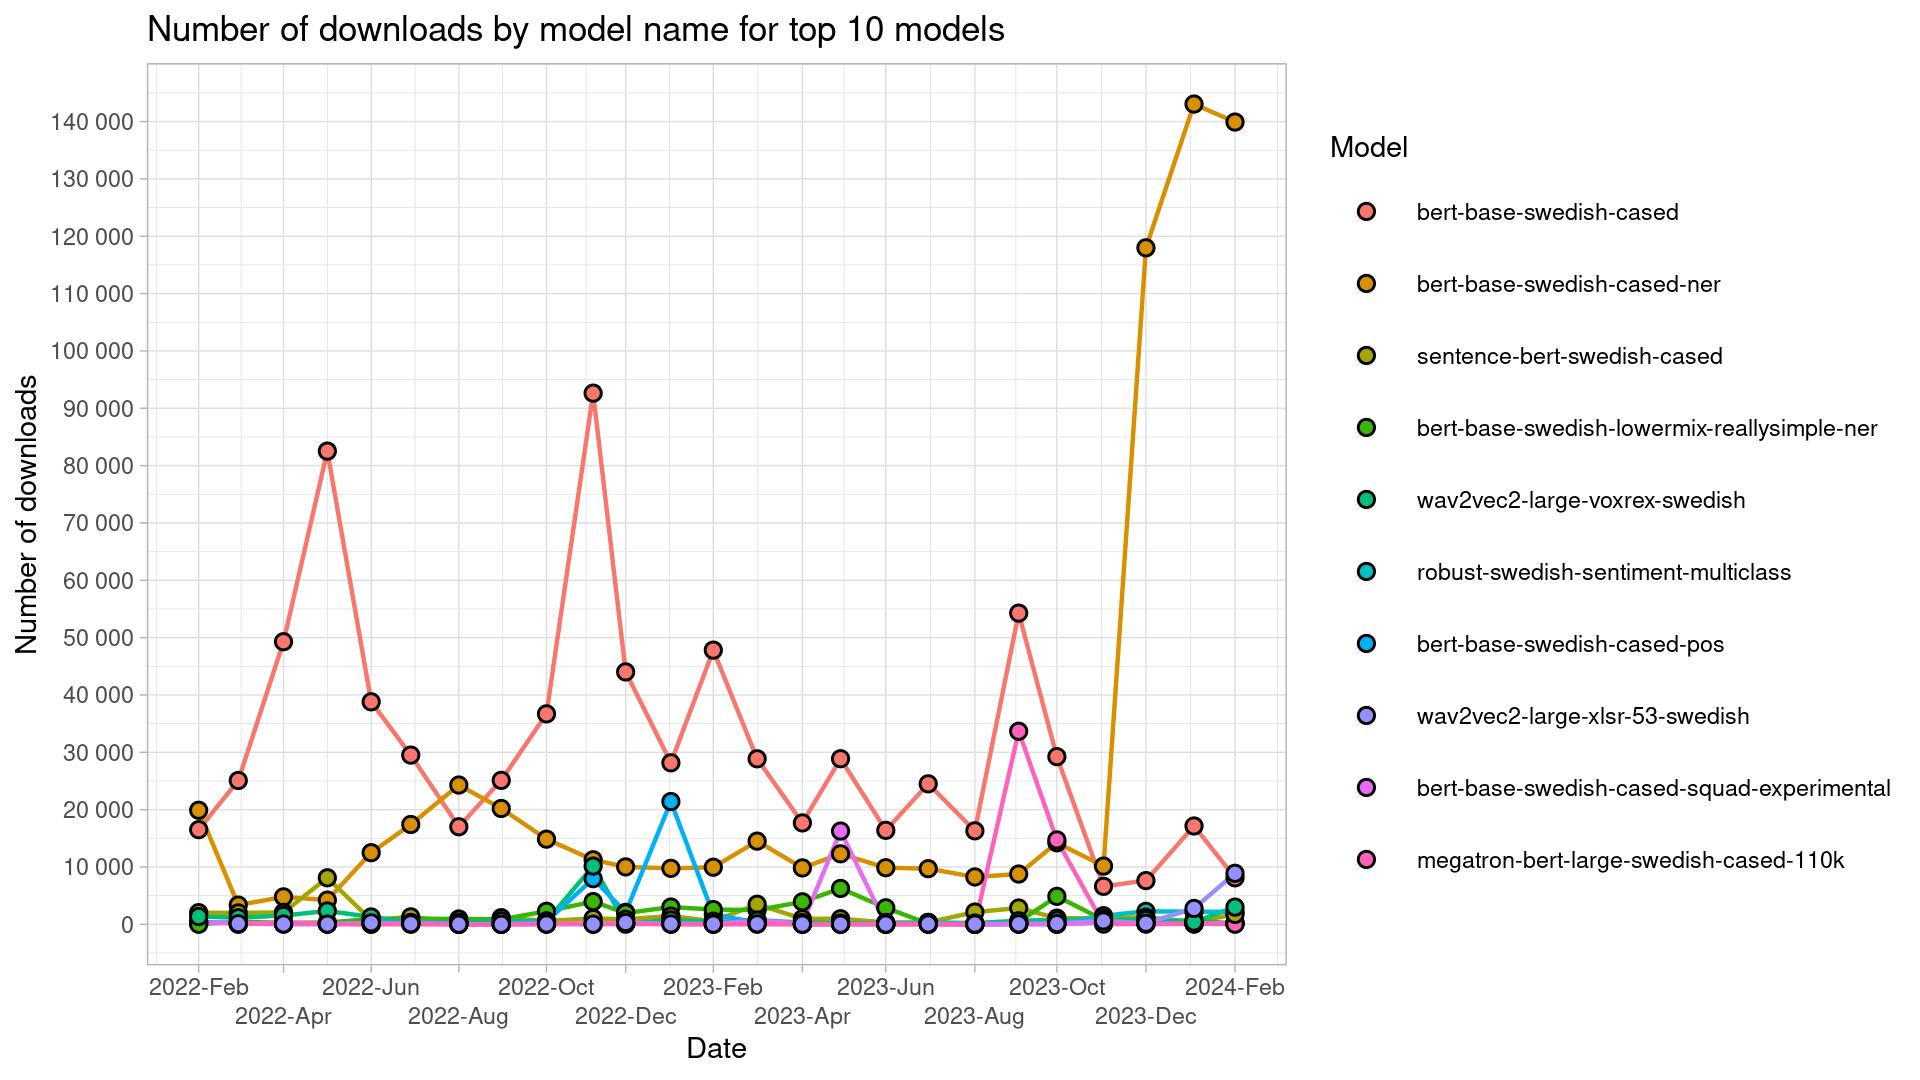
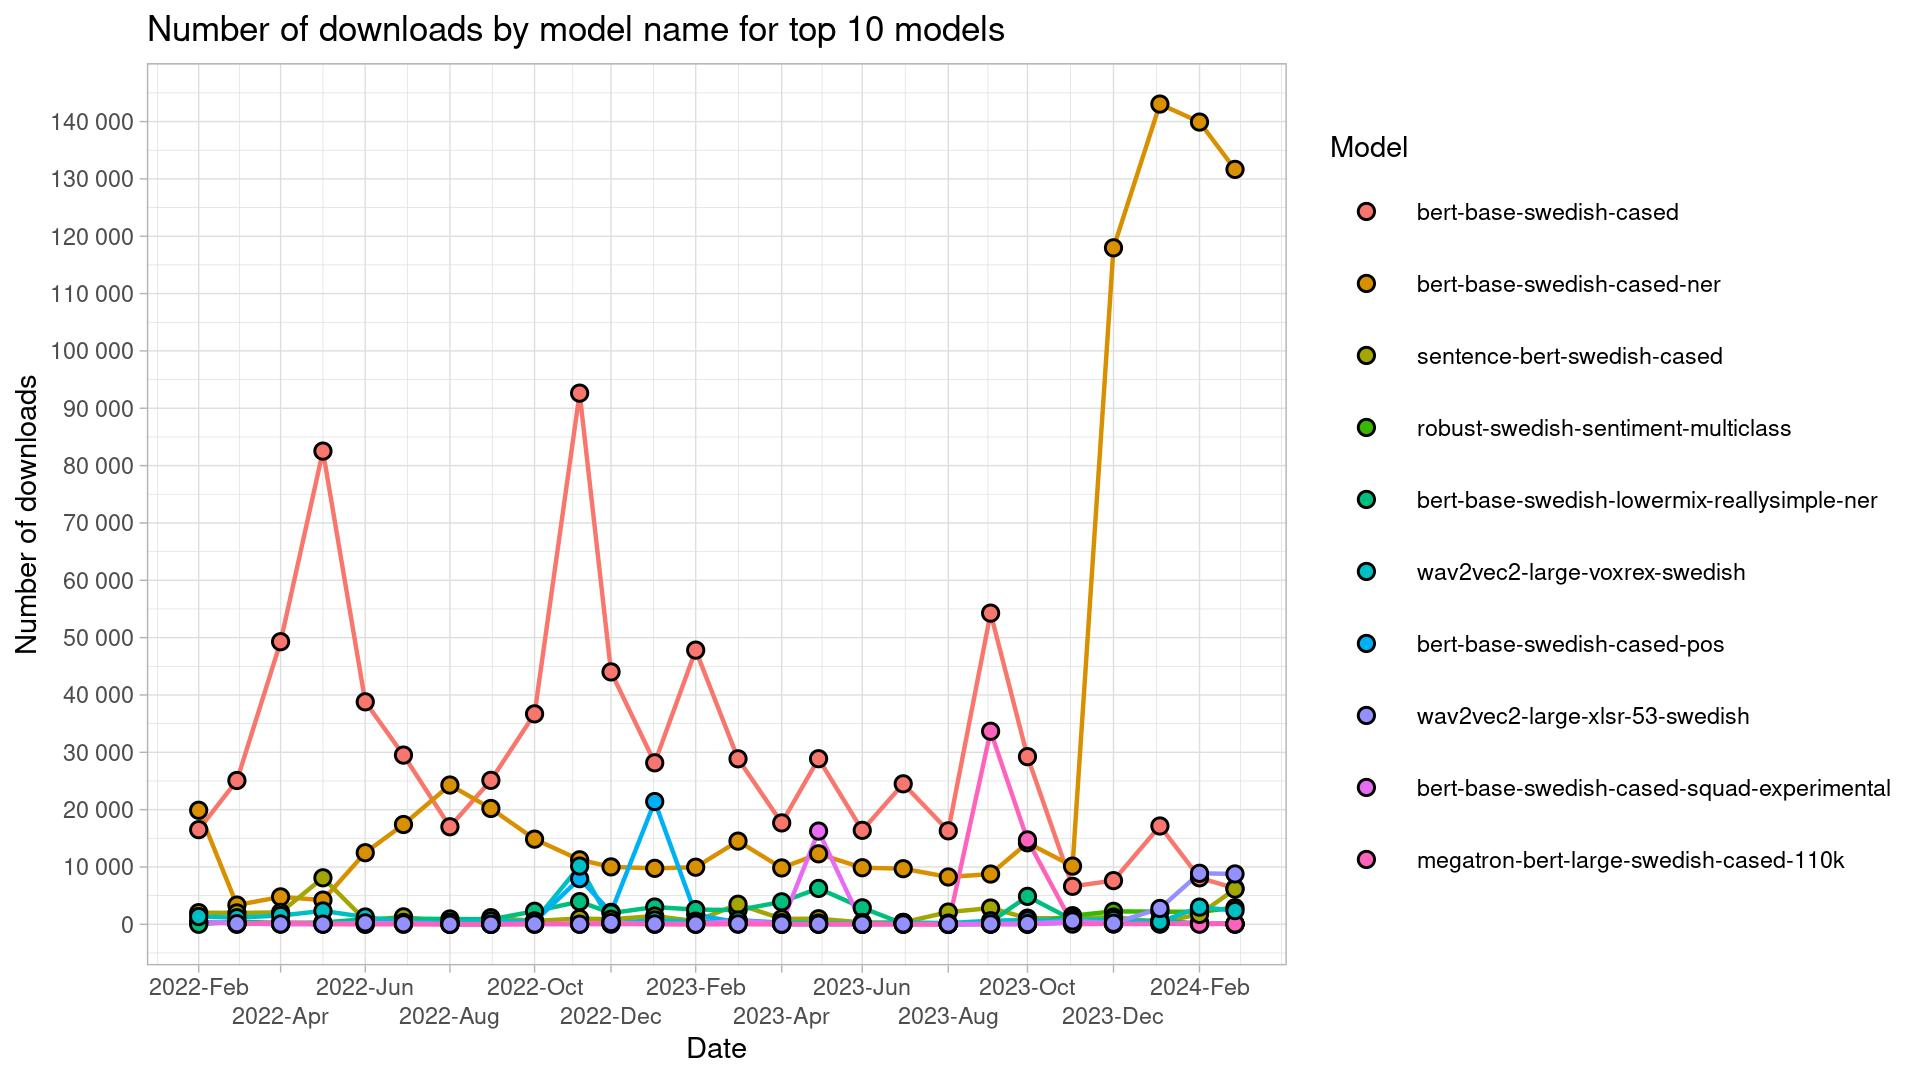
March 2024 stats

diff --git a/README.md b/README.md
@@ -12,40 +12,41 @@ Script is run monthly, and a monthly `csv`-file outputted to `/data` folder.
 
 ## Table of downloads
 
-|model_name                                      | 2022-02| 2022-03| 2022-04| 2022-05| 2022-06| 2022-07| 2022-08| 2022-09| 2022-10| 2022-11| 2022-12| 2023-01| 2023-02| 2023-03| 2023-04| 2023-05| 2023-06| 2023-07| 2023-08| 2023-09| 2023-10| 2023-11| 2023-12| 2024-01| 2024-02|
-|:-----------------------------------------------|-------:|-------:|-------:|-------:|-------:|-------:|-------:|-------:|-------:|-------:|-------:|-------:|-------:|-------:|-------:|-------:|-------:|-------:|-------:|-------:|-------:|-------:|-------:|-------:|-------:|
-|albert-base-swedish-cased-alpha                 |     126|     252|      61|      52|      52|      28|      31|      17|      30|      64|     229|      37|      32|      75|      13|      17|      24|      39|      14|      18|       4|      71|      75|      74|      20|
-|asr-voxrex-bart-base                            |      11|      10|      19|       5|       2|       1|       1|       3|       2|       3|       2|       4|       9|      15|       7|       2|       4|       7|       4|       3|       8|       2|       5|       1|       6|
-|bart-base-swedish-cased                         |      74|      12|     116|     126|      32|      18|      41|      56|      81|       6|       9|      18|      41|      70|     110|      60|      50|      40|      23|       9|      63|      44|      42|      11|     129|
-|bert-base-swedish-cased                         |   16509|   25080|   49286|   82528|   38802|   29511|   17012|   25106|   36702|   92636|   44016|   28164|   47819|   28864|   17684|   28878|   16390|   24502|   16303|   54271|   29238|    6625|    7620|   17149|    8106|
-|bert-base-swedish-cased-alpha                   |      22|      24|    1362|      34|       8|      73|       7|      14|      14|      14|      10|     160|     151|       6|       9|       5|       6|       9|       2|      12|       3|       4|       5|       3|       5|
-|bert-base-swedish-cased-ner                     |   19891|    3353|    4783|    4221|   12487|   17406|   24290|   20200|   14852|   11251|   10014|    9759|    9957|   14508|    9834|   12293|    9868|    9701|    8258|    8767|   14214|   10149|  117977|  143050|  139912|
-|bert-base-swedish-cased-neriob                  |       8|      87|      34|      25|       4|      44|       2|       1|      62|      10|       5|      31|       5|       8|       6|       6|       9|      18|       2|       1|       0|      19|       8|       5|       5|
-|bert-base-swedish-cased-new                     |      NA|       0|     377|    1069|     786|      10|     238|      69|     225|     168|     163|      46|      44|     352|     303|      33|      52|      69|      73|     211|      96|      84|      30|      34|       5|
-|bert-base-swedish-cased-pos                     |     428|     179|     107|     104|     168|     310|       2|       2|     467|    7959|    2083|   21410|    1713|     300|      15|      28|      58|      64|       9|      75|      28|     312|     159|     166|     239|
-|bert-base-swedish-cased-reallysimple-ner        |       6|      32|       9|       7|      11|      10|       3|       8|      10|      17|       4|      16|     159|     401|     211|     334|     327|     326|      74|     152|     341|     304|     274|       3|       7|
-|bert-base-swedish-cased-squad-experimental      |     323|     136|      45|      23|      40|     182|      25|      27|     101|      10|      22|      62|      56|     643|     130|   16262|      29|      29|       4|      16|      10|     280|      64|      34|     275|
-|bert-base-swedish-lowermix-reallysimple-ner     |       6|     453|     248|     312|     901|     991|     930|     871|    2274|    3958|    1963|    3010|    2567|    2485|    3919|    6258|    2875|     121|      53|     417|    4874|     769|     327|     713|      81|
-|electra-base-swedish-cased-discriminator        |     317|     143|     149|    1404|       2|       3|       3|       3|       2|       5|       0|       7|       2|       0|       6|       7|       4|       8|       0|       1|       0|       4|       0|       1|       4|
-|electra-base-swedish-cased-generator            |       9|      15|      26|      31|       2|      19|       1|      18|       1|       9|       4|      10|       4|      14|      88|      78|     107|      72|       3|      15|      39|      12|       7|      11|       8|
-|electra-small-swedish-cased-discriminator       |      12|       5|    1467|    3804|      10|       5|       2|       2|       2|      10|       8|      12|     153|       1|       9|       2|       6|       4|      18|       6|       0|       3|       0|       7|      11|
-|electra-small-swedish-cased-generator           |      NA|       3|     138|      14|       4|      19|       2|       3|       4|       8|       6|      11|       4|       3|       6|      14|       4|       9|       0|       1|       0|     131|       5|       3|       5|
-|emotional-classification                        |      NA|      NA|      NA|      NA|      NA|      NA|      NA|      NA|      NA|      NA|      NA|      NA|      NA|      NA|      NA|      NA|      NA|     155|       3|       1|       2|      27|       9|       0|       0|
-|megatron-bert-base-swedish-cased-125k           |      NA|       0|     353|       0|       2|       8|       1|       3|     131|      55|     158|      27|      21|      19|       7|       6|      10|      10|       4|       2|       0|       4|      29|      22|       5|
-|megatron-bert-base-swedish-cased-600k           |      NA|      10|     288|      87|      30|      16|      16|      17|     111|      12|      20|     194|      27|      49|      13|      15|     100|      22|       2|       2|      15|      12|      41|      21|       5|
-|megatron-bert-large-swedish-cased-110k          |      NA|       0|     346|      77|       4|       4|       0|       1|       1|     171|     160|      15|       8|      23|       4|       2|       4|       3|       0|   33671|   14716|      38|      63|     106|      29|
-|megatron-bert-large-swedish-cased-165-zero-shot |      NA|      NA|      NA|      NA|      NA|      NA|      NA|      NA|      NA|      NA|       5|      55|      26|      63|      20|     621|      69|     135|      58|     170|      48|     243|     123|      40|     127|
-|megatron-bert-large-swedish-cased-165k          |      NA|      NA|       9|      13|      40|      19|      53|       2|      18|     336|     327|      21|      34|      67|      43|      56|      36|      52|      13|      86|      37|      12|     343|     153|      24|
-|piper-tts-nst-swedish                           |      NA|      NA|      NA|      NA|      NA|      NA|      NA|      NA|      NA|      NA|      NA|      NA|      NA|      NA|      NA|       1|       8|       3|       0|       0|       0|       1|       0|       0|       0|
-|roberta-base-swedish-cased                      |       7|       7|     471|       8|      78|       5|      67|       2|       0|       5|       5|      37|     150|       3|       6|     204|      10|       9|       1|       2|       2|       2|       3|       3|      30|
-|robust-swedish-sentiment-multiclass             |      NA|      NA|      NA|      NA|      NA|      NA|      NA|      NA|      NA|      NA|      NA|      NA|      NA|      NA|      NA|      NA|      12|     296|       8|      58|     119|    1505|    2263|    2206|    2178|
-|sentence-bert-swedish-cased                     |    2033|    1988|    2079|    8110|     721|    1299|     304|    1157|     597|    1008|     887|    1441|     546|    3499|     955|     970|     327|     328|    2135|    2841|    1071|    1067|    1258|     383|    1733|
-|swedish-spacy-pipeline                          |      65|      22|       5|       2|       5|       9|       1|       2|       0|       1|       3|       4|       6|      90|       3|       1|       0|       1|       3|       9|       5|       5|       5|       3|      56|
-|wav2vec2-base-voxpopuli-sv-swedish              |      NA|      21|      19|       7|       1|      NA|       1|       5|      99|       6|       2|      13|      57|      12|      56|       4|      26|       9|       0|       1|       7|       4|       2|     113|       5|
-|wav2vec2-large-voxpopuli-sv-swedish             |      58|      32|      73|      57|      24|       5|       5|      11|      59|      15|       7|      23|       9|      10|      13|      10|       7|      14|       4|       1|       5|      26|       2|       3|      12|
-|wav2vec2-large-voxrex                           |     780|     609|     996|      57|     102|      55|      13|      34|      74|       4|       0|      56|      17|      11|       8|      17|       4|      15|       2|       1|      13|       6|       3|       1|      12|
-|wav2vec2-large-voxrex-swedish                   |    1356|    1151|    1534|    2331|    1277|     334|     361|     611|     531|   10157|     146|     770|     411|     732|     290|     225|      65|     330|     217|     624|     752|     769|     829|     392|    3000|
-|wav2vec2-large-xlsr-53-swedish                  |      NA|     112|      55|      32|     259|      91|      19|       9|      61|      26|     307|      71|      32|      76|      26|      31|      45|      65|      50|      77|     126|     586|     188|    2766|    8897|
-|whisper-large-rixvox                            |      NA|      NA|      NA|      NA|      NA|      NA|      NA|      NA|      NA|      NA|      NA|      NA|      NA|     113|      56|       8|       9|      12|       9|       6|       0|      16|       0|       2|      19|
-|whisper-small-rixvox                            |      NA|      NA|      NA|      NA|      NA|      NA|      NA|      NA|      NA|      NA|      NA|      NA|      NA|       3|       1|       6|       2|       7|       0|       0|       0|       1|       0|       0|       0|
-|whisper-tiny-rixvox                             |      NA|      NA|      NA|      NA|      NA|      NA|      NA|      NA|      NA|      NA|      NA|      NA|      NA|       9|       1|       5|       4|       7|       3|       0|       0|       1|       0|       0|       2|
+|model_name                                        | 2022-02| 2022-03| 2022-04| 2022-05| 2022-06| 2022-07| 2022-08| 2022-09| 2022-10| 2022-11| 2022-12| 2023-01| 2023-02| 2023-03| 2023-04| 2023-05| 2023-06| 2023-07| 2023-08| 2023-09| 2023-10| 2023-11| 2023-12| 2024-01| 2024-02| 2024-03|
+|:-------------------------------------------------|-------:|-------:|-------:|-------:|-------:|-------:|-------:|-------:|-------:|-------:|-------:|-------:|-------:|-------:|-------:|-------:|-------:|-------:|-------:|-------:|-------:|-------:|-------:|-------:|-------:|-------:|
+|albert-base-swedish-cased-alpha                   |     126|     252|      61|      52|      52|      28|      31|      17|      30|      64|     229|      37|      32|      75|      13|      17|      24|      39|      14|      18|       4|      71|      75|      74|      20|      27|
+|asr-voxrex-bart-base                              |      11|      10|      19|       5|       2|       1|       1|       3|       2|       3|       2|       4|       9|      15|       7|       2|       4|       7|       4|       3|       8|       2|       5|       1|       6|       8|
+|bart-base-swedish-cased                           |      74|      12|     116|     126|      32|      18|      41|      56|      81|       6|       9|      18|      41|      70|     110|      60|      50|      40|      23|       9|      63|      44|      42|      11|     129|      14|
+|bert-base-swedish-cased                           |   16509|   25080|   49286|   82528|   38802|   29511|   17012|   25106|   36702|   92636|   44016|   28164|   47819|   28864|   17684|   28878|   16390|   24502|   16303|   54271|   29238|    6625|    7620|   17149|    8106|    6290|
+|bert-base-swedish-cased-alpha                     |      22|      24|    1362|      34|       8|      73|       7|      14|      14|      14|      10|     160|     151|       6|       9|       5|       6|       9|       2|      12|       3|       4|       5|       3|       5|      11|
+|bert-base-swedish-cased-ner                       |   19891|    3353|    4783|    4221|   12487|   17406|   24290|   20200|   14852|   11251|   10014|    9759|    9957|   14508|    9834|   12293|    9868|    9701|    8258|    8767|   14214|   10149|  117977|  143050|  139912|  131659|
+|bert-base-swedish-cased-neriob                    |       8|      87|      34|      25|       4|      44|       2|       1|      62|      10|       5|      31|       5|       8|       6|       6|       9|      18|       2|       1|       0|      19|       8|       5|       5|      11|
+|bert-base-swedish-cased-new                       |      NA|       0|     377|    1069|     786|      10|     238|      69|     225|     168|     163|      46|      44|     352|     303|      33|      52|      69|      73|     211|      96|      84|      30|      34|       5|      53|
+|bert-base-swedish-cased-pos                       |     428|     179|     107|     104|     168|     310|       2|       2|     467|    7959|    2083|   21410|    1713|     300|      15|      28|      58|      64|       9|      75|      28|     312|     159|     166|     239|      33|
+|bert-base-swedish-cased-reallysimple-ner          |       6|      32|       9|       7|      11|      10|       3|       8|      10|      17|       4|      16|     159|     401|     211|     334|     327|     326|      74|     152|     341|     304|     274|       3|       7|      14|
+|bert-base-swedish-cased-squad-experimental        |     323|     136|      45|      23|      40|     182|      25|      27|     101|      10|      22|      62|      56|     643|     130|   16262|      29|      29|       4|      16|      10|     280|      64|      34|     275|      30|
+|bert-base-swedish-lowermix-reallysimple-ner       |       6|     453|     248|     312|     901|     991|     930|     871|    2274|    3958|    1963|    3010|    2567|    2485|    3919|    6258|    2875|     121|      53|     417|    4874|     769|     327|     713|      81|     111|
+|electra-base-swedish-cased-discriminator          |     317|     143|     149|    1404|       2|       3|       3|       3|       2|       5|       0|       7|       2|       0|       6|       7|       4|       8|       0|       1|       0|       4|       0|       1|       4|       5|
+|electra-base-swedish-cased-generator              |       9|      15|      26|      31|       2|      19|       1|      18|       1|       9|       4|      10|       4|      14|      88|      78|     107|      72|       3|      15|      39|      12|       7|      11|       8|      52|
+|electra-small-swedish-cased-discriminator         |      12|       5|    1467|    3804|      10|       5|       2|       2|       2|      10|       8|      12|     153|       1|       9|       2|       6|       4|      18|       6|       0|       3|       0|       7|      11|      13|
+|electra-small-swedish-cased-generator             |      NA|       3|     138|      14|       4|      19|       2|       3|       4|       8|       6|      11|       4|       3|       6|      14|       4|       9|       0|       1|       0|     131|       5|       3|       5|       9|
+|emotional-classification                          |      NA|      NA|      NA|      NA|      NA|      NA|      NA|      NA|      NA|      NA|      NA|      NA|      NA|      NA|      NA|      NA|      NA|     155|       3|       1|       2|      27|       9|       0|       0|      13|
+|megatron-bert-base-swedish-cased-125k             |      NA|       0|     353|       0|       2|       8|       1|       3|     131|      55|     158|      27|      21|      19|       7|       6|      10|      10|       4|       2|       0|       4|      29|      22|       5|       3|
+|megatron-bert-base-swedish-cased-600k             |      NA|      10|     288|      87|      30|      16|      16|      17|     111|      12|      20|     194|      27|      49|      13|      15|     100|      22|       2|       2|      15|      12|      41|      21|       5|      67|
+|megatron-bert-large-swedish-cased-110k            |      NA|       0|     346|      77|       4|       4|       0|       1|       1|     171|     160|      15|       8|      23|       4|       2|       4|       3|       0|   33671|   14716|      38|      63|     106|      29|      70|
+|megatron-bert-large-swedish-cased-165-zero-shot   |      NA|      NA|      NA|      NA|      NA|      NA|      NA|      NA|      NA|      NA|       5|      55|      26|      63|      20|     621|      69|     135|      58|     170|      48|     243|     123|      40|     127|     147|
+|megatron-bert-large-swedish-cased-165k            |      NA|      NA|       9|      13|      40|      19|      53|       2|      18|     336|     327|      21|      34|      67|      43|      56|      36|      52|      13|      86|      37|      12|     343|     153|      24|      18|
+|megatron.bert-large.unigram-64k-pretok.500k-steps |      NA|      NA|      NA|      NA|      NA|      NA|      NA|      NA|      NA|      NA|      NA|      NA|      NA|      NA|      NA|      NA|      NA|      NA|      NA|      NA|      NA|      NA|      NA|      NA|      NA|     310|
+|piper-tts-nst-swedish                             |      NA|      NA|      NA|      NA|      NA|      NA|      NA|      NA|      NA|      NA|      NA|      NA|      NA|      NA|      NA|       1|       8|       3|       0|       0|       0|       1|       0|       0|       0|       3|
+|roberta-base-swedish-cased                        |       7|       7|     471|       8|      78|       5|      67|       2|       0|       5|       5|      37|     150|       3|       6|     204|      10|       9|       1|       2|       2|       2|       3|       3|      30|      15|
+|robust-swedish-sentiment-multiclass               |      NA|      NA|      NA|      NA|      NA|      NA|      NA|      NA|      NA|      NA|      NA|      NA|      NA|      NA|      NA|      NA|      12|     296|       8|      58|     119|    1505|    2263|    2206|    2178|    2895|
+|sentence-bert-swedish-cased                       |    2033|    1988|    2079|    8110|     721|    1299|     304|    1157|     597|    1008|     887|    1441|     546|    3499|     955|     970|     327|     328|    2135|    2841|    1071|    1067|    1258|     383|    1733|    6143|
+|swedish-spacy-pipeline                            |      65|      22|       5|       2|       5|       9|       1|       2|       0|       1|       3|       4|       6|      90|       3|       1|       0|       1|       3|       9|       5|       5|       5|       3|      56|       5|
+|wav2vec2-base-voxpopuli-sv-swedish                |      NA|      21|      19|       7|       1|      NA|       1|       5|      99|       6|       2|      13|      57|      12|      56|       4|      26|       9|       0|       1|       7|       4|       2|     113|       5|       6|
+|wav2vec2-large-voxpopuli-sv-swedish               |      58|      32|      73|      57|      24|       5|       5|      11|      59|      15|       7|      23|       9|      10|      13|      10|       7|      14|       4|       1|       5|      26|       2|       3|      12|     117|
+|wav2vec2-large-voxrex                             |     780|     609|     996|      57|     102|      55|      13|      34|      74|       4|       0|      56|      17|      11|       8|      17|       4|      15|       2|       1|      13|       6|       3|       1|      12|      10|
+|wav2vec2-large-voxrex-swedish                     |    1356|    1151|    1534|    2331|    1277|     334|     361|     611|     531|   10157|     146|     770|     411|     732|     290|     225|      65|     330|     217|     624|     752|     769|     829|     392|    3000|    2389|
+|wav2vec2-large-xlsr-53-swedish                    |      NA|     112|      55|      32|     259|      91|      19|       9|      61|      26|     307|      71|      32|      76|      26|      31|      45|      65|      50|      77|     126|     586|     188|    2766|    8897|    8785|
+|whisper-large-rixvox                              |      NA|      NA|      NA|      NA|      NA|      NA|      NA|      NA|      NA|      NA|      NA|      NA|      NA|     113|      56|       8|       9|      12|       9|       6|       0|      16|       0|       2|      19|      38|
+|whisper-small-rixvox                              |      NA|      NA|      NA|      NA|      NA|      NA|      NA|      NA|      NA|      NA|      NA|      NA|      NA|       3|       1|       6|       2|       7|       0|       0|       0|       1|       0|       0|       0|      13|
+|whisper-tiny-rixvox                               |      NA|      NA|      NA|      NA|      NA|      NA|      NA|      NA|      NA|      NA|      NA|      NA|      NA|       9|       1|       5|       4|       7|       3|       0|       0|       1|       0|       0|       2|      12|
